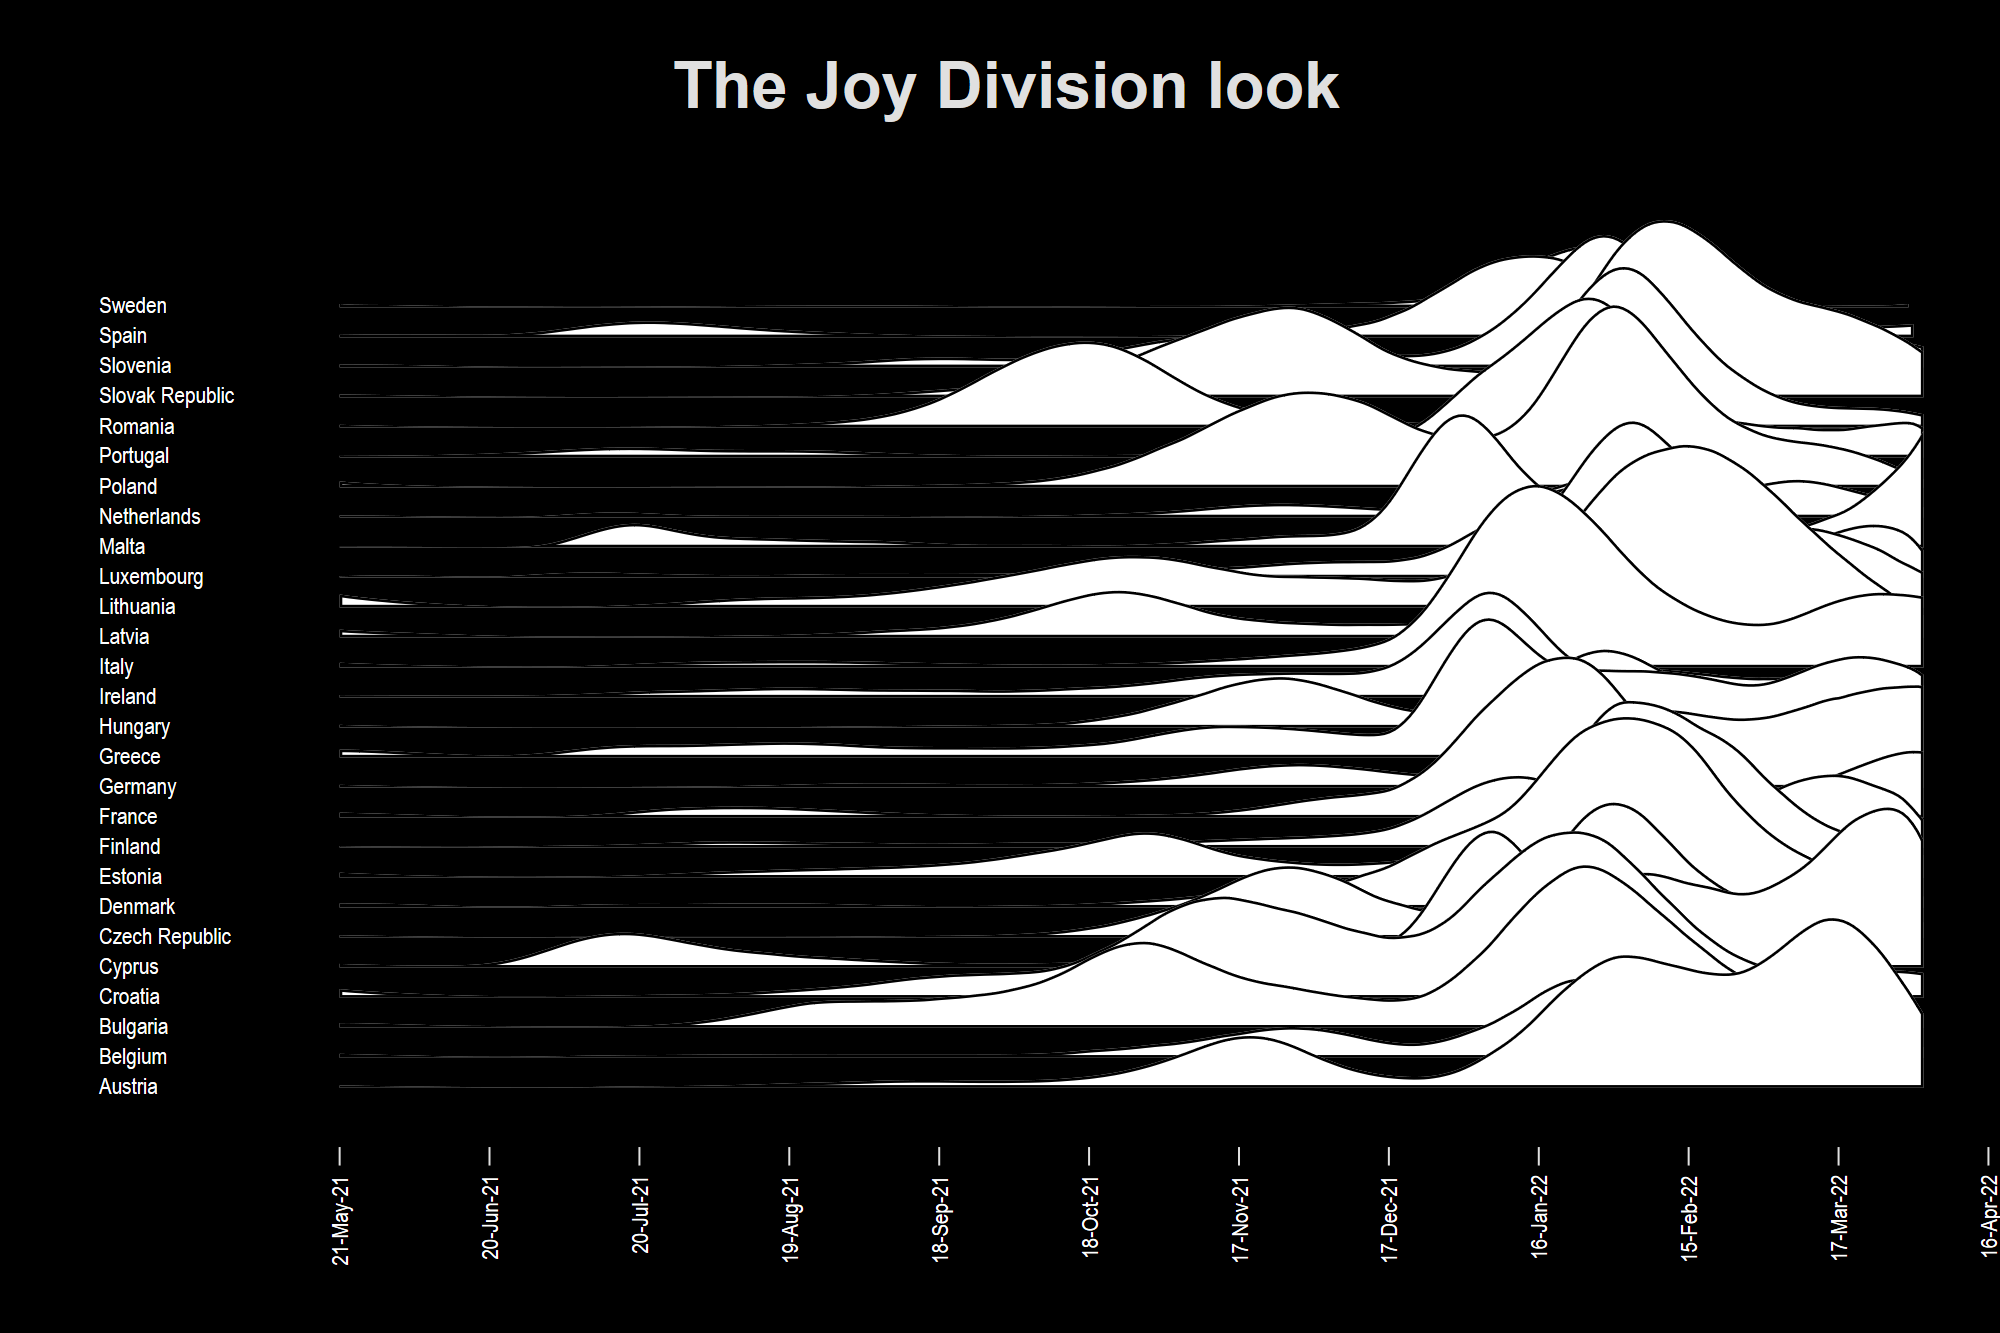
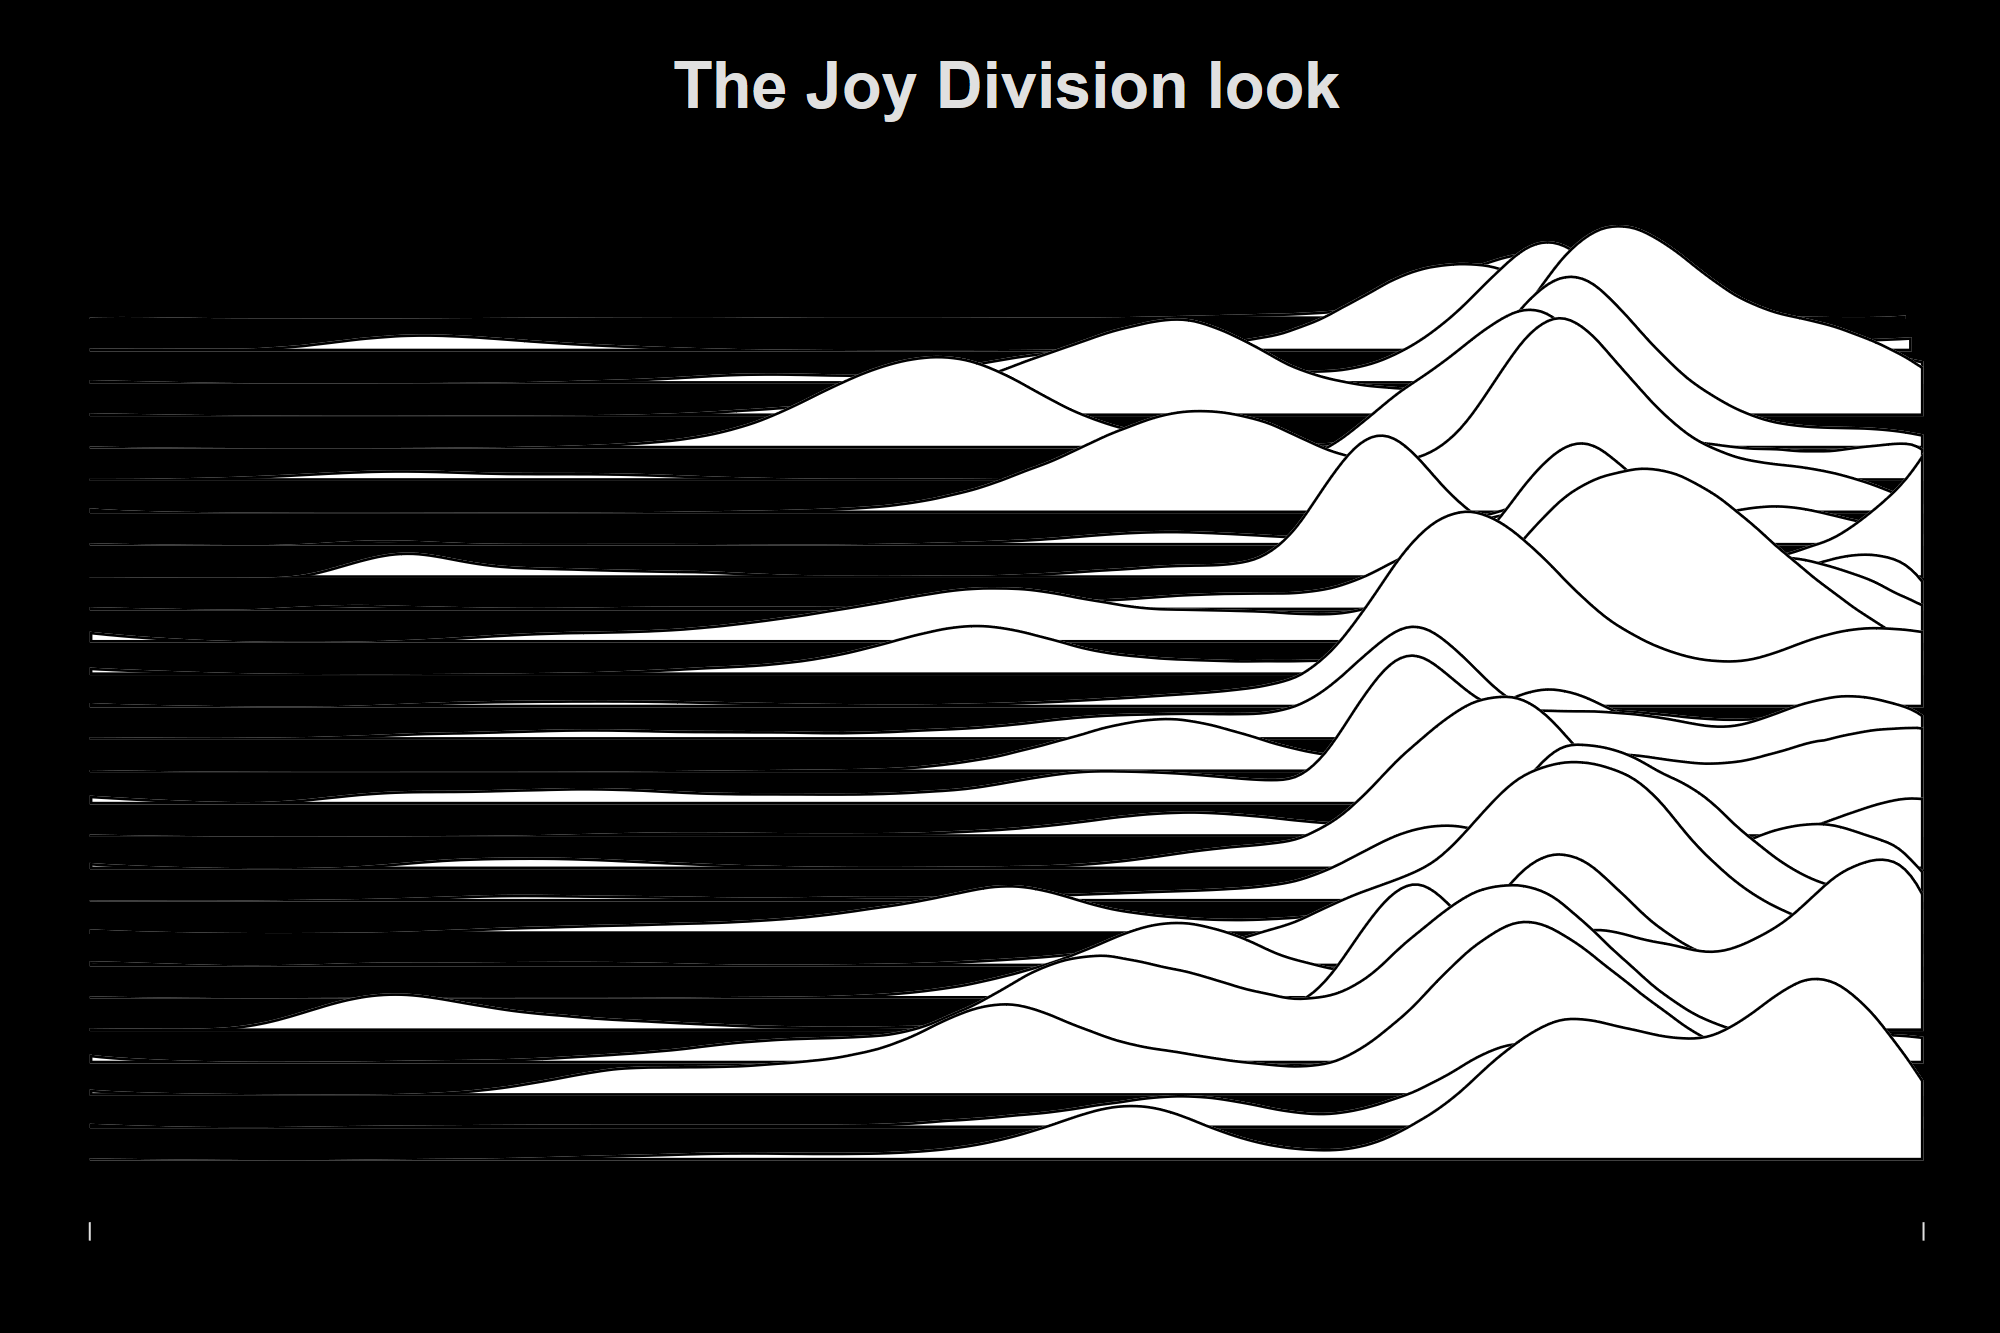
v1.2 minor fixes

diff --git a/README.md b/README.md
@@ -191,16 +191,16 @@ joyplot new_cases date if date > 22267, over(country) overlap(8) color(CET C1) a
 ### The Joy Division look, since this plots get their name from the band:
 
 ```
-qui summ date if date > 22420
+qui summ date if date > 22425
 
 local xmin = r(min)
 local xmax = r(max)
 	
-joyplot new_cases date if date > 22420, over(country) overlap(8) color(white) alpha(100) bwid(0.1) ///
-	lc(black) lw(0.2) xticks(`xmin'(30)`xmax') off(-30) ///
-	ylabc(white) xlabc(white) /// 
+joyplot new_cases date if date > 22425, over(country) overlap(8) color(white) alpha(100) bwid(0.1) ///
+	lc(black) lw(0.2) xticks(`xmin' `xmax') off(+20) ///
+	ylabc(none) xlabc(none) xangle(0) /// 
 	xtitle("") ytitle("") ///
-	title("{fontface Arial Bold:The Joy division look}") scheme(neon)
+	title("{fontface Arial Bold:The Joy Division look}") scheme(neon)
 ```
 
 <img src="/figures/joyplot6.png" height="600">
